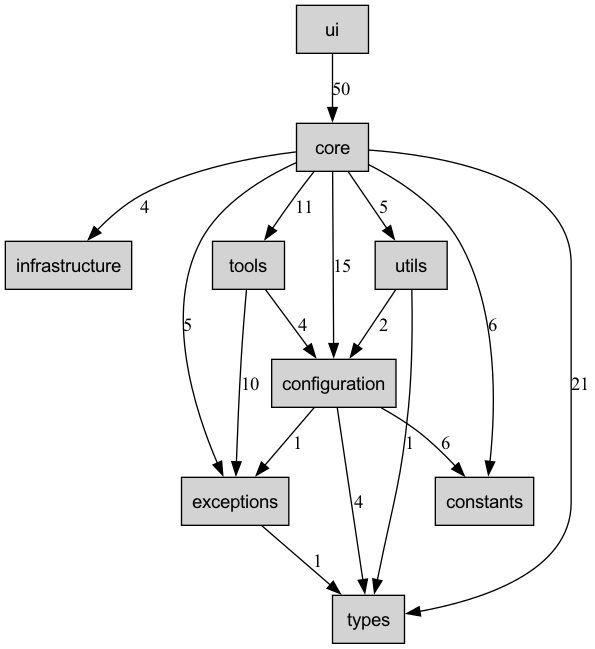
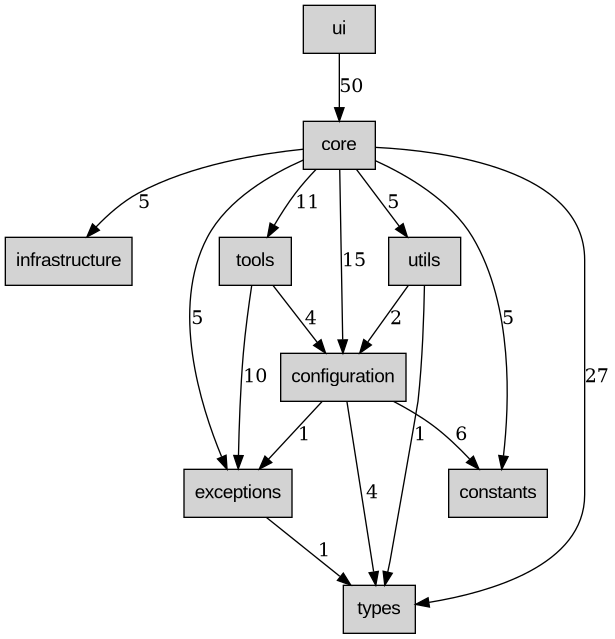
chore: update dependency map [skip ci]

diff --git a/docs/architecture/dependencies/DEPENDENCY_LAYERS.md b/docs/architecture/dependencies/DEPENDENCY_LAYERS.md
@@ -1,6 +1,6 @@
 # Dependency Layers
 
-Generated: 2026-02-04
+Generated: 2026-02-06
 
 ## Layer Order (topological)
 
@@ -24,11 +24,11 @@ types
 | configuration | exceptions | 1 |
 | configuration | types | 4 |
 | core | configuration | 15 |
-| core | constants | 6 |
+| core | constants | 5 |
 | core | exceptions | 5 |
-| core | infrastructure | 4 |
+| core | infrastructure | 5 |
 | core | tools | 11 |
-| core | types | 21 |
+| core | types | 27 |
 | core | utils | 5 |
 | exceptions | types | 1 |
 | tools | configuration | 4 |
